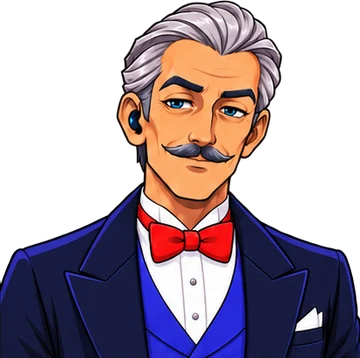
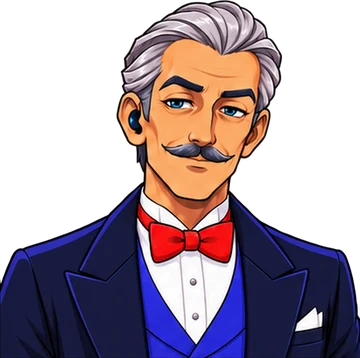
feat(alfred): personnage tire des planches detourees haute definition
Les 18 images (9 bustes, 9 poses en pied) viennent maintenant des
planches deja detourees en HD (pied 4096 x 6144, bustes 5016 x 5016) :
halo presque transparent coupe, numeros de case effaces, contour net
sur fond sombre. URL d'images en ?v=3.

Ajoute aussi docs/plans_circulation_a_integrer.md (en attente dans
l'arbre de travail, sans lien avec ce changement).

diff --git a/templates/alfred_retours.html b/templates/alfred_retours.html
@@ -22,7 +22,7 @@
   <div class="app-main single-col-page">
     <header class="app-header">
       <span class="header-title" style="display:flex; align-items:center; gap:8px;">
-        <span class="alfred-face"><img src="{{ url_for('static', filename='img/alfred/buste-pouce.webp') }}?v=2" alt=""></span>
+        <span class="alfred-face"><img src="{{ url_for('static', filename='img/alfred/buste-pouce.webp') }}?v=3" alt=""></span>
         Retours Alfred
       </span>
       <div class="header-spacer"></div>
@@ -34,7 +34,7 @@
     <div id="main-content">
       <div class="ar-page">
         <p class="ar-intro">
-          <img class="alfred-fig" src="{{ url_for('static', filename='img/alfred/pied-note.webp') }}?v=2" alt="">
+          <img class="alfred-fig" src="{{ url_for('static', filename='img/alfred/pied-note.webp') }}?v=3" alt="">
           Chaque pouce posé par un opérateur dans le chat fige ici l'échange complet : conversation,
           outils appelés et ce que Cockpit leur a répondu. Ces retours ne sont pas purgés à 90 jours.
           Pour un pouce bas : identifier la cause (outil Cockpit, prompt ou modèle côté VM, question hors champ),
@@ -81,6 +81,6 @@
   window.__userIsManager = {{ "true" if ("manager" in user_roles or "admin" in user_roles) else "false" }};
 </script>
 <script src="{{ url_for('static', filename='js/sidebar.js') }}"></script>
-<script src="{{ url_for('static', filename='js/alfred_retours.js') }}?v=3"></script>
+<script src="{{ url_for('static', filename='js/alfred_retours.js') }}?v=4"></script>
 </body>
 </html>

diff --git a/templates/edit.html b/templates/edit.html
@@ -624,13 +624,13 @@
       <!-- Section Contexte des evenements (Alfred) -->
       <section class="widget-card" style="margin-top:16px;">
         <header class="widget-header" data-collapsible data-section="alfred-contexte">
-          <h3><span class="alfred-face"><img src="{{ url_for('static', filename='img/alfred/buste-montre.webp') }}?v=2" alt=""></span> Contexte des événements (Alfred)</h3>
+          <h3><span class="alfred-face"><img src="{{ url_for('static', filename='img/alfred/buste-montre.webp') }}?v=3" alt=""></span> Contexte des événements (Alfred)</h3>
           <span id="aec-status" style="font-size:0.78rem; color:var(--muted); margin-left:auto; margin-right:8px;"></span>
           <span class="material-symbols-outlined collapse-icon">expand_more</span>
         </header>
         <div class="widget-body collapsible" id="alfred-contexte-body">
           <p class="aec-intro">
-            <img class="alfred-fig" src="{{ url_for('static', filename='img/alfred/pied-document.webp') }}?v=2" alt="">
+            <img class="alfred-fig" src="{{ url_for('static', filename='img/alfred/pied-document.webp') }}?v=3" alt="">
             Quelques lignes par événement pour qu'Alfred <strong>comprenne</strong> les questions : nature de
             l'événement, public, particularités, vocabulaire du PC. Les <strong>surnoms</strong> (« les camions »,
             « TC ») lui permettent de retrouver l'événement dont parle l'opérateur.

diff --git a/templates/_sidebar.html b/templates/_sidebar.html
@@ -222,7 +222,7 @@
             <span class="label">Applications liees</span>
         </a>{% endif %}
         {% if _adm %}<a href="/alfred-retours" class="{{ nav_class('/alfred-retours') }}" title="Pouces et motifs des operateurs sur les reponses d'Alfred" data-nav-item>
-            <span class="material-symbols-outlined alfred-face"><img src="{{ url_for('static', filename='img/alfred/buste-pouce.webp') }}?v=2" alt=""></span>
+            <span class="material-symbols-outlined alfred-face"><img src="{{ url_for('static', filename='img/alfred/buste-pouce.webp') }}?v=3" alt=""></span>
             <span class="label">Retours Alfred</span>
         </a>{% endif %}
         {% if _adm or (admin_page_allowed is defined and admin_page_allowed('wiki_admin')) %}<a href="/admin/wiki" class="{{ nav_class('/admin/wiki') }}" data-nav-item>
@@ -323,5 +323,5 @@
 <div id="alfred-chat-root" data-firstname="{{ user_firstname | default('', true) }}"></div>
 {# ?v= a incrementer a chaque modification du widget (cache navigateur). #}
 <link rel="stylesheet" href="{{ url_for('static', filename='css/alfred_chat.css') }}?v=11">
-<script src="{{ url_for('static', filename='js/alfred_chat.js') }}?v=13" defer></script>
+<script src="{{ url_for('static', filename='js/alfred_chat.js') }}?v=14" defer></script>
 {% endif %}

diff --git a/templates/field_dispatch.html b/templates/field_dispatch.html
@@ -231,7 +231,7 @@
             {% if show_alfred %}
             <section class="widget-card" style="margin-top:24px; border-top:3px solid #059669;">
                 <header class="widget-header">
-                    <h3><span class="alfred-face"><img src="{{ url_for('static', filename='img/alfred/buste-ecoute.webp') }}?v=2" alt=""></span> Alfred &mdash; agent IA WhatsApp</h3>
+                    <h3><span class="alfred-face"><img src="{{ url_for('static', filename='img/alfred/buste-ecoute.webp') }}?v=3" alt=""></span> Alfred &mdash; agent IA WhatsApp</h3>
                     <div id="alfred-admin-count" style="font-size:12px; color:var(--muted); margin-left:auto;"></div>
                 </header>
                 <div class="widget-body">

diff --git a/static/js/alfred_chat.js b/static/js/alfred_chat.js
@@ -235,7 +235,7 @@
   var IMG_BASE = "/static/img/alfred/";
   function alfredImg(name, cls) {
     var img = el("img", cls);
-    img.src = IMG_BASE + name + ".webp?v=2";
+    img.src = IMG_BASE + name + ".webp?v=3";
     img.alt = "";
     img.draggable = false;
     img.decoding = "async";
@@ -250,7 +250,7 @@
   function setPose(a, pose) {
     if (!a || a.getAttribute("data-pose") === pose) return;
     a.setAttribute("data-pose", pose);
-    a.firstChild.src = IMG_BASE + "buste-" + pose + ".webp?v=2";
+    a.firstChild.src = IMG_BASE + "buste-" + pose + ".webp?v=3";
   }
 
   function csrf() {

diff --git a/static/js/alfred_retours.js b/static/js/alfred_retours.js
@@ -251,7 +251,7 @@
   function vide(pose, texte) {
     var box = el("div", "ar-empty alfred-empty");
     var img = el("img", "alfred-fig");
-    img.src = "/static/img/alfred/" + pose + ".webp?v=2";
+    img.src = "/static/img/alfred/" + pose + ".webp?v=3";
     img.alt = "";
     box.appendChild(img);
     box.appendChild(el("p", null, texte));

diff --git a/docs/claude/alfred.md b/docs/claude/alfred.md
@@ -16,7 +16,7 @@ WAHA pousse les messages sur `POST /api/wa/webhook` (HMAC, exempté de CSRF). Pa
 
 Bulle flottante injectée par `_sidebar.html` (donc sur toute page à barre latérale) si `alfred_chat_allowed()` : drapeau de groupe **`alfred_chat`** (Configuration > Groupes > Assistant > « Chat Alfred »), **coupé par défaut**, toujours vrai pour un admin, sans groupe = celui du groupe par défaut (`app.user_can_alfred_chat`). Brief du wrapper côté VM : `docs/alfred-vm-brief.md`.
 
-- **Personnage (29/10/2026)** : `static/img/alfred/` = 9 bustes (`buste-neutre|salut|malicieux|pouce|ecoute|stop|clin|montre|aurevoir`) et 9 poses en pied (`pied-accueil|document|plateau|indique|parapluie|presente|ecoute|note|the`), WebP détourés tirés de deux planches 3 x 3 (script de découpe hors dépôt). Poses en pied : planche sur fond blanc 4096 x 6144, fond retiré par remplissage depuis les bords, ombre au sol sombre semi-transparente. Bustes : planche déjà détourée (alpha), halo < 40 coupé, numéros de case effacés ; plus nets sur fond sombre que le détourage du fond blanc. Widget : `avatar(pose)` / `setPose`, la pose suit l'état (`renderPoses`) : bulle = salue au survol, `montre` pendant une réponse, `clin` sur non lu, `stop` si injoignable ; en-tête `ecoute` pendant une réponse ; message en attente `ecoute` puis `montre` (`typingPose`, rafraîchi par le minuteur des secondes) ; erreur `stop`, pouce haut `pouce`, pouce bas `salut` ; accueil `pied-accueil`, historique vide `pied-the`. Hors widget : classe `.alfred-face` / `.alfred-fig` (`style.css`) sur la barre latérale, /alfred-retours, l'admin WhatsApp et le contexte des événements. Remplacer une image = même nom de fichier (penser au `?v=` si le cache gêne).
+- **Personnage (29/10/2026)** : `static/img/alfred/` = 9 bustes (`buste-neutre|salut|malicieux|pouce|ecoute|stop|clin|montre|aurevoir`) et 9 poses en pied (`pied-accueil|document|plateau|indique|parapluie|presente|ecoute|note|the`), WebP tirés de deux planches 3 x 3 déjà détourées en haute définition (pied 4096 x 6144, bustes 5016 x 5016 ; script de découpe hors dépôt) : halo alpha < 40 coupé (taches rouges et jaunes presque transparentes autour des têtes), numéros de case effacés, pied ramenés à 760 px de haut, bustes à 360 px de large. Ne pas repartir des planches sur fond blanc : leur détourage laissait un liseré clair visible sur fond sombre. Widget : `avatar(pose)` / `setPose`, la pose suit l'état (`renderPoses`) : bulle = salue au survol, `montre` pendant une réponse, `clin` sur non lu, `stop` si injoignable ; en-tête `ecoute` pendant une réponse ; message en attente `ecoute` puis `montre` (`typingPose`, rafraîchi par le minuteur des secondes) ; erreur `stop`, pouce haut `pouce`, pouce bas `salut` ; accueil `pied-accueil`, historique vide `pied-the`. Hors widget : classe `.alfred-face` / `.alfred-fig` (`style.css`) sur la barre latérale, /alfred-retours, l'admin WhatsApp et le contexte des événements. Remplacer une image = même nom de fichier (penser au `?v=` si le cache gêne).
 - **Client HMAC unique** : `alfred._alfred_ask` (celui de WhatsApp), étendu par des options `request_id`, `is_new_mention`, `extra`, `timeout` absentes du corps quand elles valent `None` (payload WhatsApp identique, testé).
 - ⚠ **Asynchrone obligatoire** : Waitress = 4 threads, une réponse = 3 à 90 s. `POST /api/alfred-chat/ask` insère la question + une réponse `queued`, lance un thread (sémaphore `ALFRED_CHAT_MAX_CONCURRENT`, 2) et rend tout de suite ; le front relit `GET /message/<id>` toutes les 1,5 s. La conversation vit en base : changer de page ne perd pas la réponse. Un message resté `queued/running` au-delà de file + timeout + 60 s passe en erreur `expire` (thread perdu au redémarrage). Une seule question en cours par opérateur (409), 40 questions / 10 min (429).
 - **Contexte** (`ALFRED_CHAT_CONTEXT_MODE`) : `prefix` (défaut, compatible wrapper actuel qui ignore `system`) = ligne `[Contexte Cockpit, a ne pas recopier] ...` en tête du dernier message ; `field` = `channel: "cockpit"` + `context {...}` ; `both` pour la bascule.

diff --git a/docs/plans_circulation_a_integrer.md b/docs/plans_circulation_a_integrer.md
@@ -1,0 +1,41 @@
+# Plans de circulation : à intégrer dans Cockpit (note du 29/10/2026)
+
+Décision du 29/10/2026 : les **plans de circulation** sont retirés définitivement de la refonte de
+Looker (`looker/docs/refonte/00_PLAN_REFONTE.md`, ex-vague V15) et seront intégrés **plus tard dans
+Cockpit**, qui possède déjà le moteur d'itinéraire et l'édition des règles (`/admin/itineraire`,
+service valhalla-admin, voir `docs/claude/routing.md`). Looker n'en gardera aucune partie : il
+reste l'atlas (référentiel cartographique) et peut seulement afficher en lecture une couche
+« fermetures » si Cockpit l'expose.
+
+Rien n'est commencé : cette note garde ce qui avait été prévu côté Looker, pour reprendre le sujet ici.
+
+## Ce qui était prévu
+
+- **Une variante = une épreuve valhalla-admin** (fermer, interdire VL / piétons / vélos, sens
+  unique, piste, vitesse), rattachée à un événement. L'édition des règles reste dans
+  `/admin/itineraire` (décision Q15 du 29/10 : Cockpit est l'éditeur).
+- Ce que Cockpit n'a pas encore et qu'il faudrait ajouter :
+  - horaires et motifs de chaque mesure ;
+  - parkings et accès ;
+  - demande et charge ;
+  - panneaux manquants, avec un pont vers SignManager (plan de pose) ;
+  - planches A3 « public » et « technique » ;
+  - liste des mesures pour l'arrêté ;
+  - comparaison de variantes.
+- **Pas d'essai de charge** (décision Q14 du 29/10) : on dessine les variantes (planches, arrêté)
+  sans calculer les itinéraires détournés. Charger une épreuve sur le Valhalla de production le
+  rend indisponible ~30 s pour toutes les applications ; une seconde instance « bac à sable » a été
+  écartée.
+- Client Valhalla : celui de Cockpit (4 modes : normal, normal + piste, god, god + piste ; recettes
+  lues sur `GET /profiles` ; jamais `ignore_access`).
+- Ponts : panneaux vers SignManager, parkings vers Groundmaster, piétons vers Flux piétons (Looker).
+
+## Matière existante
+
+- Atelier du plan canicule (`2026/PLAN CANICULE/atelier`), partie « plans de circulation » :
+  mesures par voie OSM avec horaires, planches, projet `Le_Mans_FC.json` (à migrer).
+- Critère de sortie qui avait été fixé : reproduire la planche « public » du 24 H 2026.
+- Charge estimée côté Looker : ~12 jours.
+
+Le reste de l'atelier (chantiers et budget, relief et PSA) part dans Looker (espace Projets, vagues
+V13 et V14).
